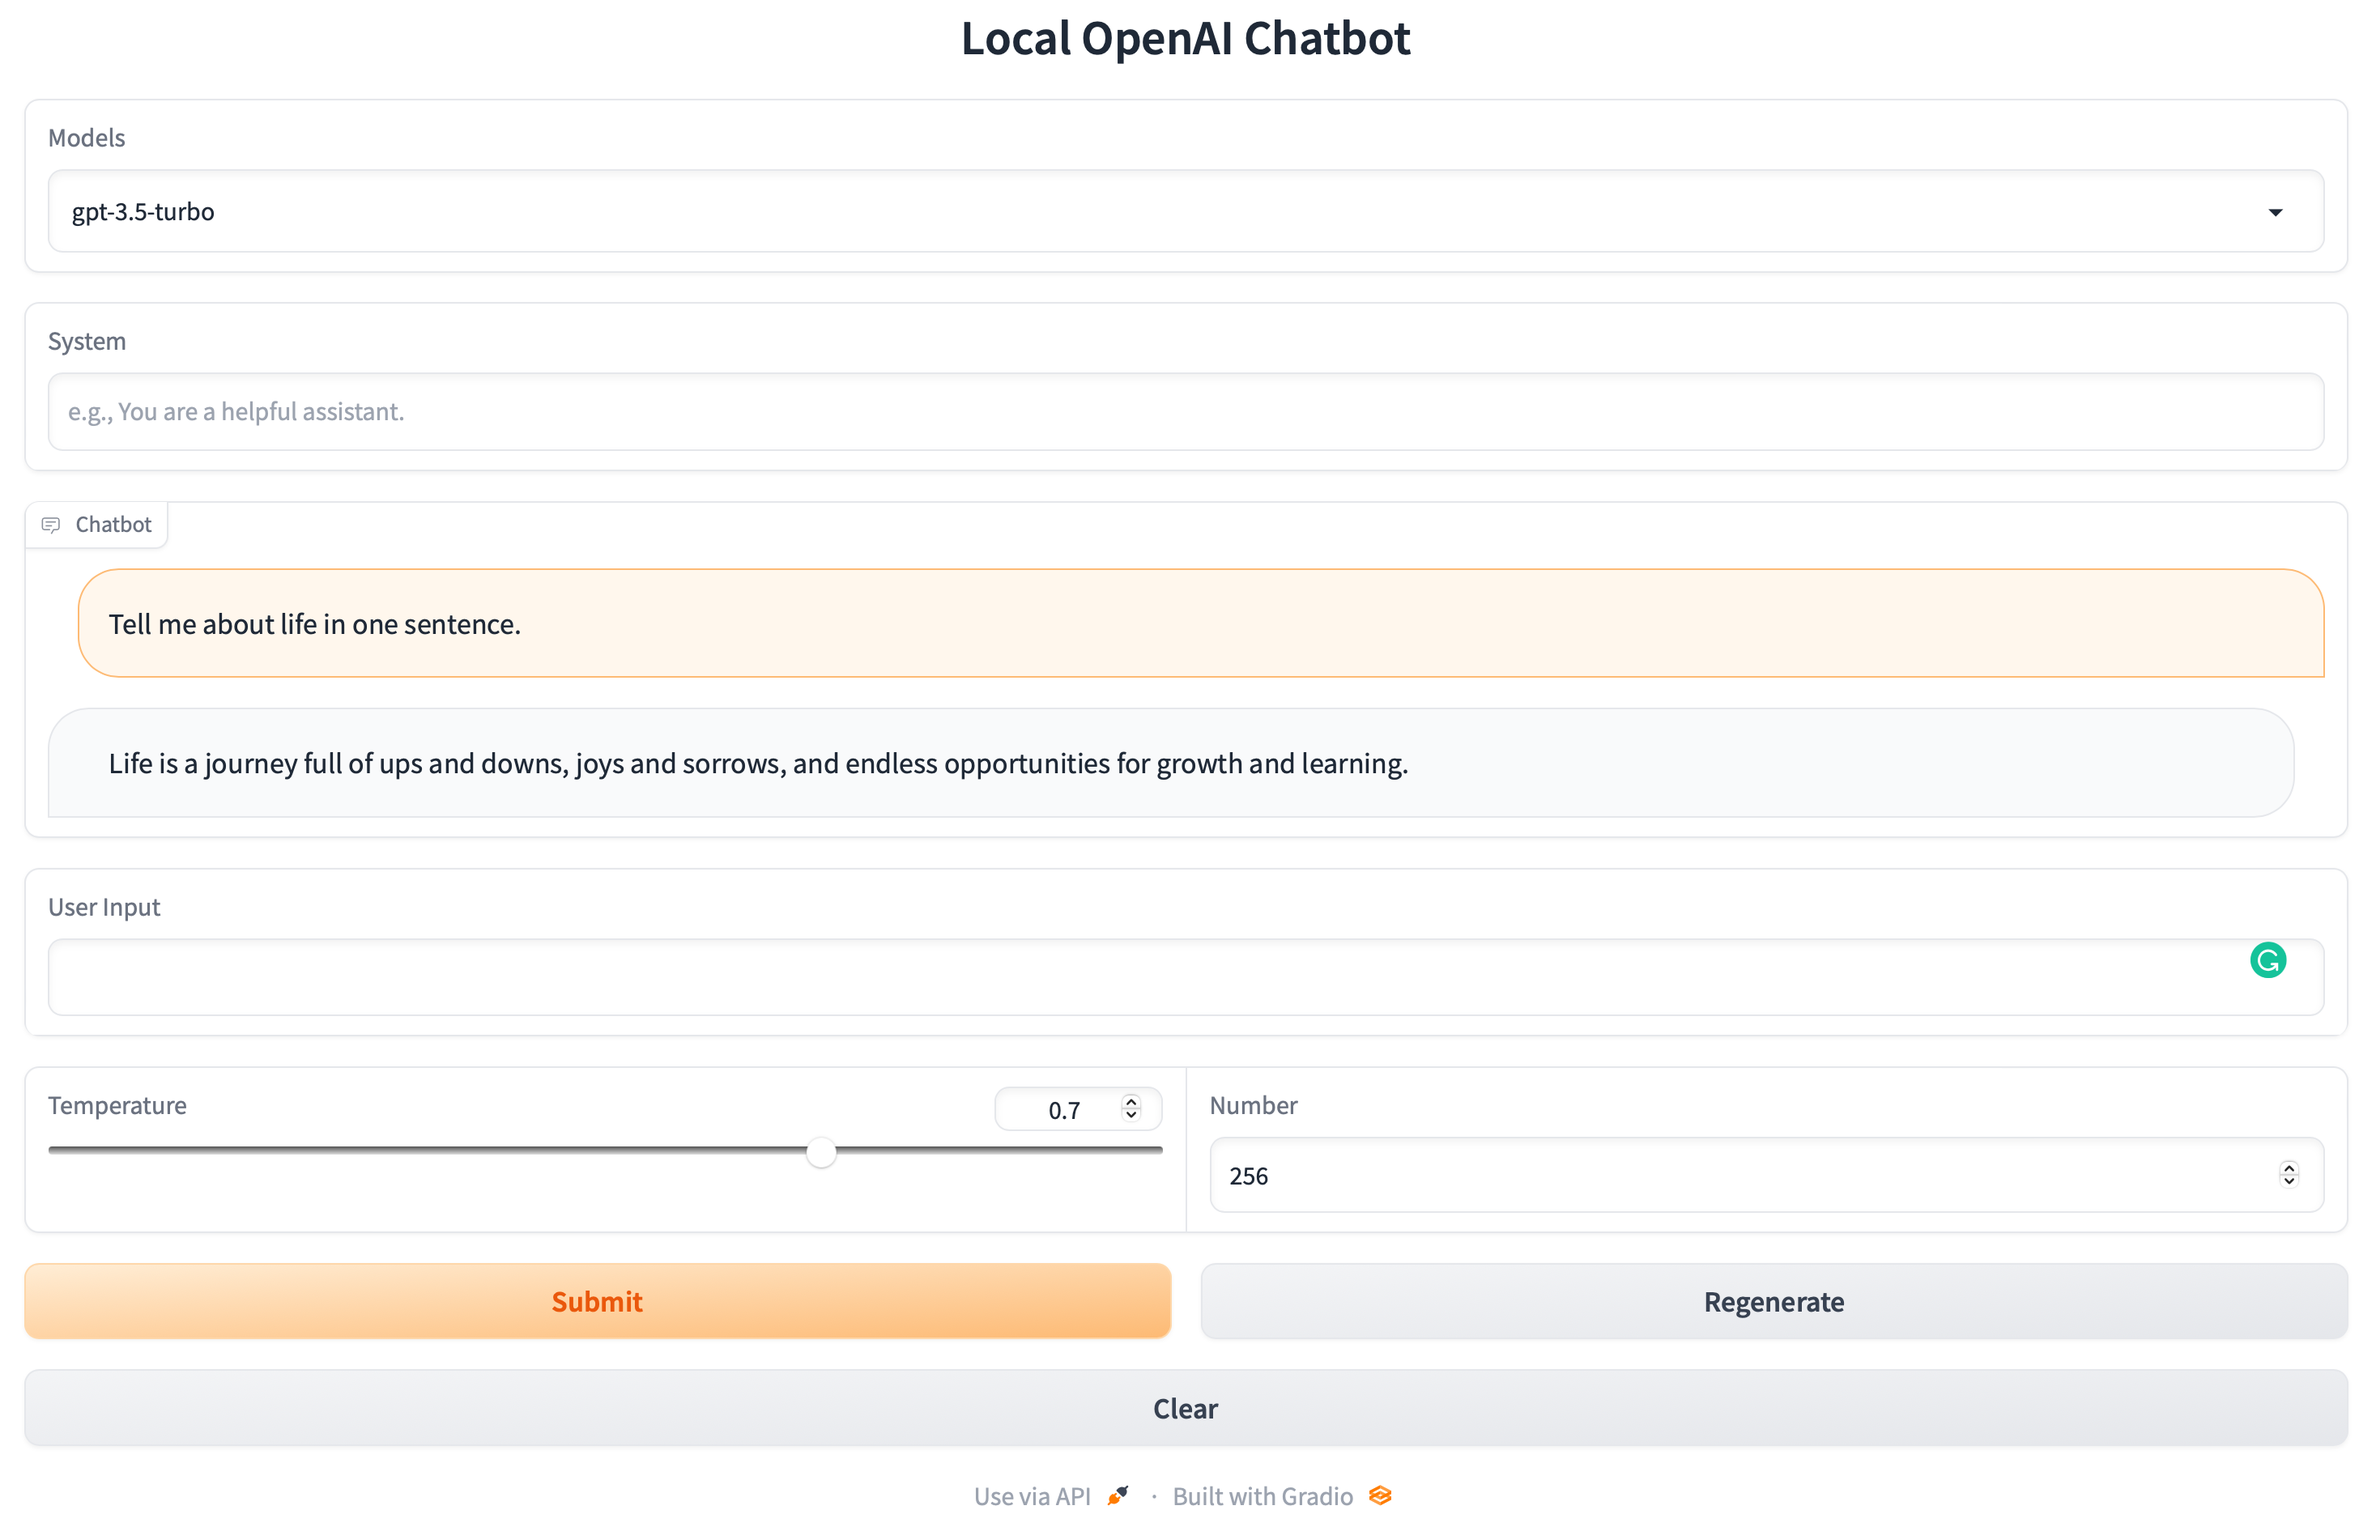
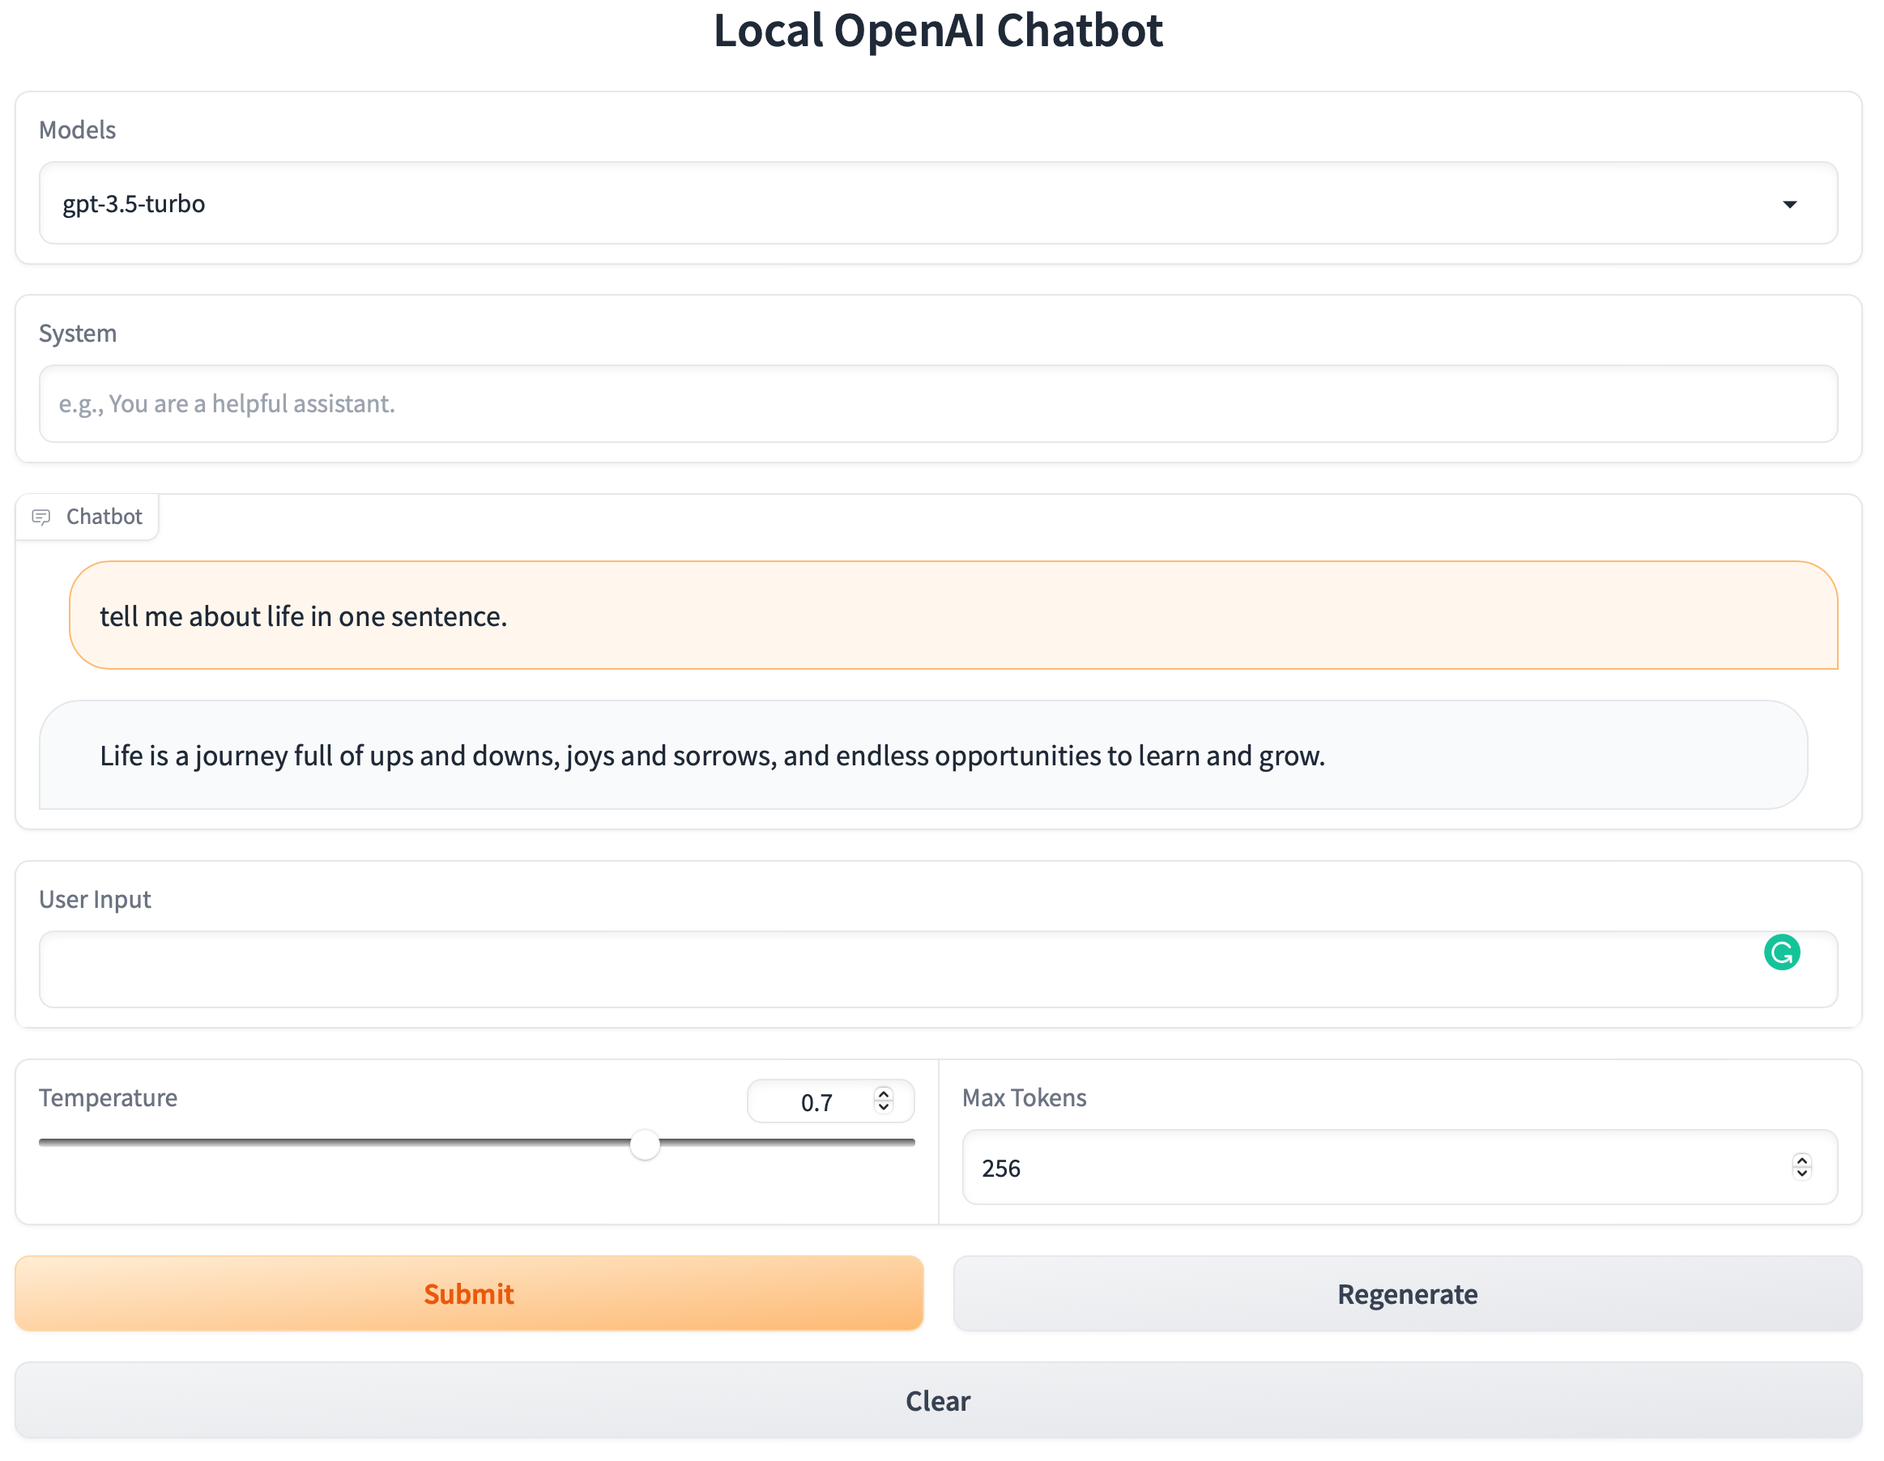
update layout

diff --git a/app_chatbot_hf.py b/app_chatbot_hf.py
@@ -147,7 +147,7 @@ with gr.Blocks(title='Local HuggingFace Chatbot') as demo:
     msg = gr.Textbox(label='User Input')
     with gr.Row():
         temperature = gr.Slider(0, 1, value=0.7, label='Temperature')
-        max_tokens = gr.Number(value=256) # max_new_tokens
+        max_tokens = gr.Number(value=256, label='Max Tokens') # max_new_tokens
     
     with gr.Row():
         btn_send = gr.Button(value="Submit", variant="primary", interactive=True)    

diff --git a/app_chatbot.py b/app_chatbot.py
@@ -111,7 +111,7 @@ with gr.Blocks(title='Local OpenAI Chatbot') as demo:
     msg = gr.Textbox(label='User Input')
     with gr.Row():
         temperature = gr.Slider(0, 1, value=0.7, label='Temperature')
-        max_tokens = gr.Number(value=256) # max_new_tokens
+        max_tokens = gr.Number(value=256, label='Max Tokens') # max_new_tokens
     
     with gr.Row():
         btn_send = gr.Button(value="Submit", variant="primary", interactive=True)    
